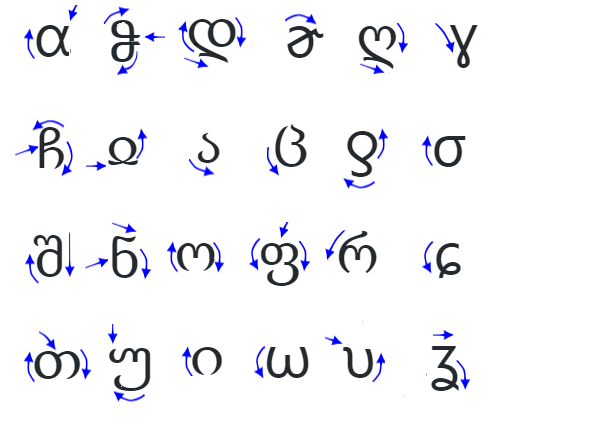
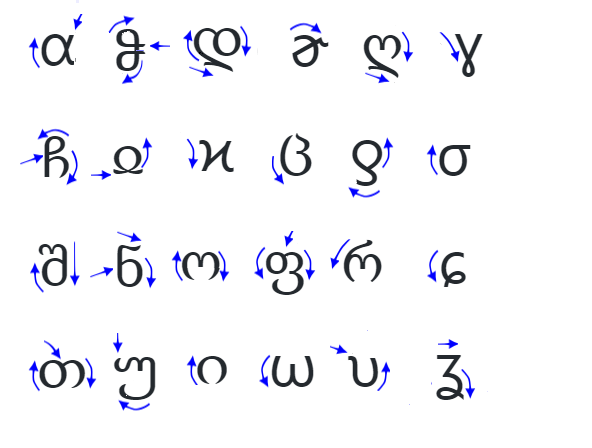
update script

diff --git a/script.md b/script.md
@@ -6,22 +6,19 @@
 
 Latin | Maj| IPA  | Latin | Maj | IPA 
 ------|----|------|-------|-----|--------
-  a   | ⍺  | ʌ    | m     | წ   | mɨ
+  a   | ⍺  | ʌ    | m     | შ   | mɨ
   b   | ჵ  | bɨ   | n     | ნ   | nɨ
-  k   | ე  | kɨ   | o     | ო   | o    
+  k   | ϰ  | kɨ   | o     | ჲ   | o    
   d   | დ  | dɨ   | p     | ფ   | pɨ  
   e   | ɚ  | e    | r     | რ   | rɨ  
   f   | ღ  | fɨ   | s     | σ   | sɨ  
   g   | ɣ  | ɢɨ   | x     | ɕ   | ʂɨ  
   h   | ჩ  | ɦɨ   | t     | თ   | tɨ  
-  y   | ჲ  | i    | u     | უ   | u   
-  j   | ა  | ʒɨ   | i     | ი   | ɨ
+  y   | ყ  | i    | u     | ʋ   | u   
+  j   | უ  | ʒɨ   | i     | ი   | ɨ
   l   | ჷ  | lɨ   | w     | ω   | uʌ 
-  c   | ც  | tsɨ  | v     | ʋ   | vʌ
+  c   | ც  | tsɨ  | v     | ე   | vʌ
   q   | ƍ  | tʃɨ  | z     | ʓ   | zʌ        
-
-* ⍺ჵედɚღɣჩჲაჷცƍ
-* წნოფრσɕთუიωʋʓ
 
 ## Writing direction
 
@@ -34,8 +31,8 @@ The cost of writing can be calculated using 5 classes:
 
 Cost |  Letter
 -----|----------------------------
-  1  |akyijlsxvg
-  2  |behqortuw
+  1  |akijlsxvgo
+  2  |behqrtuwy
   3  |cnpz
   4  |dfp
 
@@ -56,7 +53,7 @@ Cost |  Letter
 
 **example:**
 
-1. ნუ.ჲრდუ.ცუ.ციწ⍺.უɚჷ.ცუ.ɣოɕ⍺;
+1. ნʋ ყრდʋ ცʋ ციშ⍺ ʋɚჷ ცʋ ɣჲɕ⍺;;
 1. nu yrdu cu cima uel cu goxa;
 1. we go to cinema or to supermarket;
 
